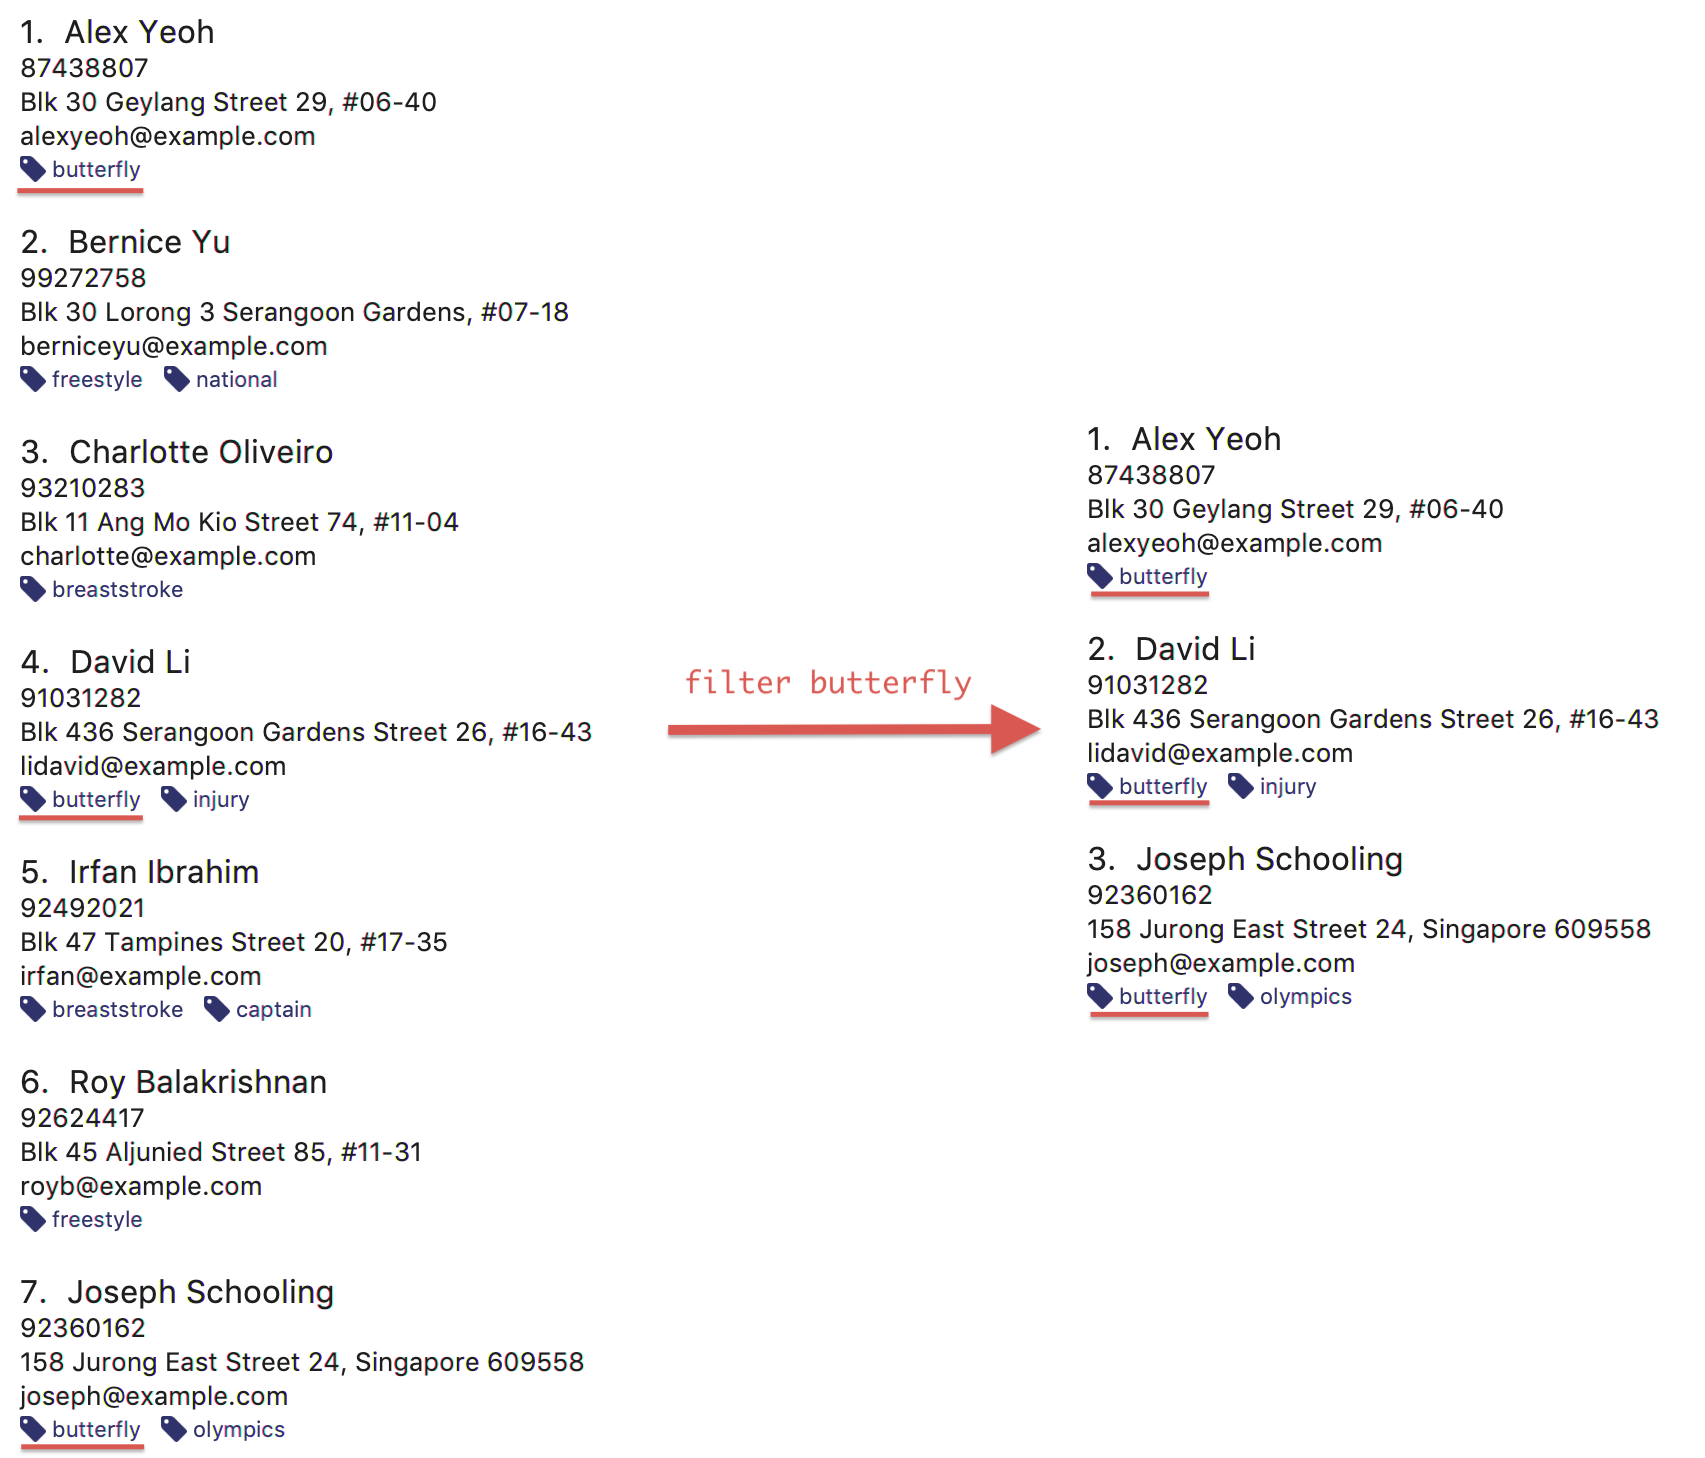
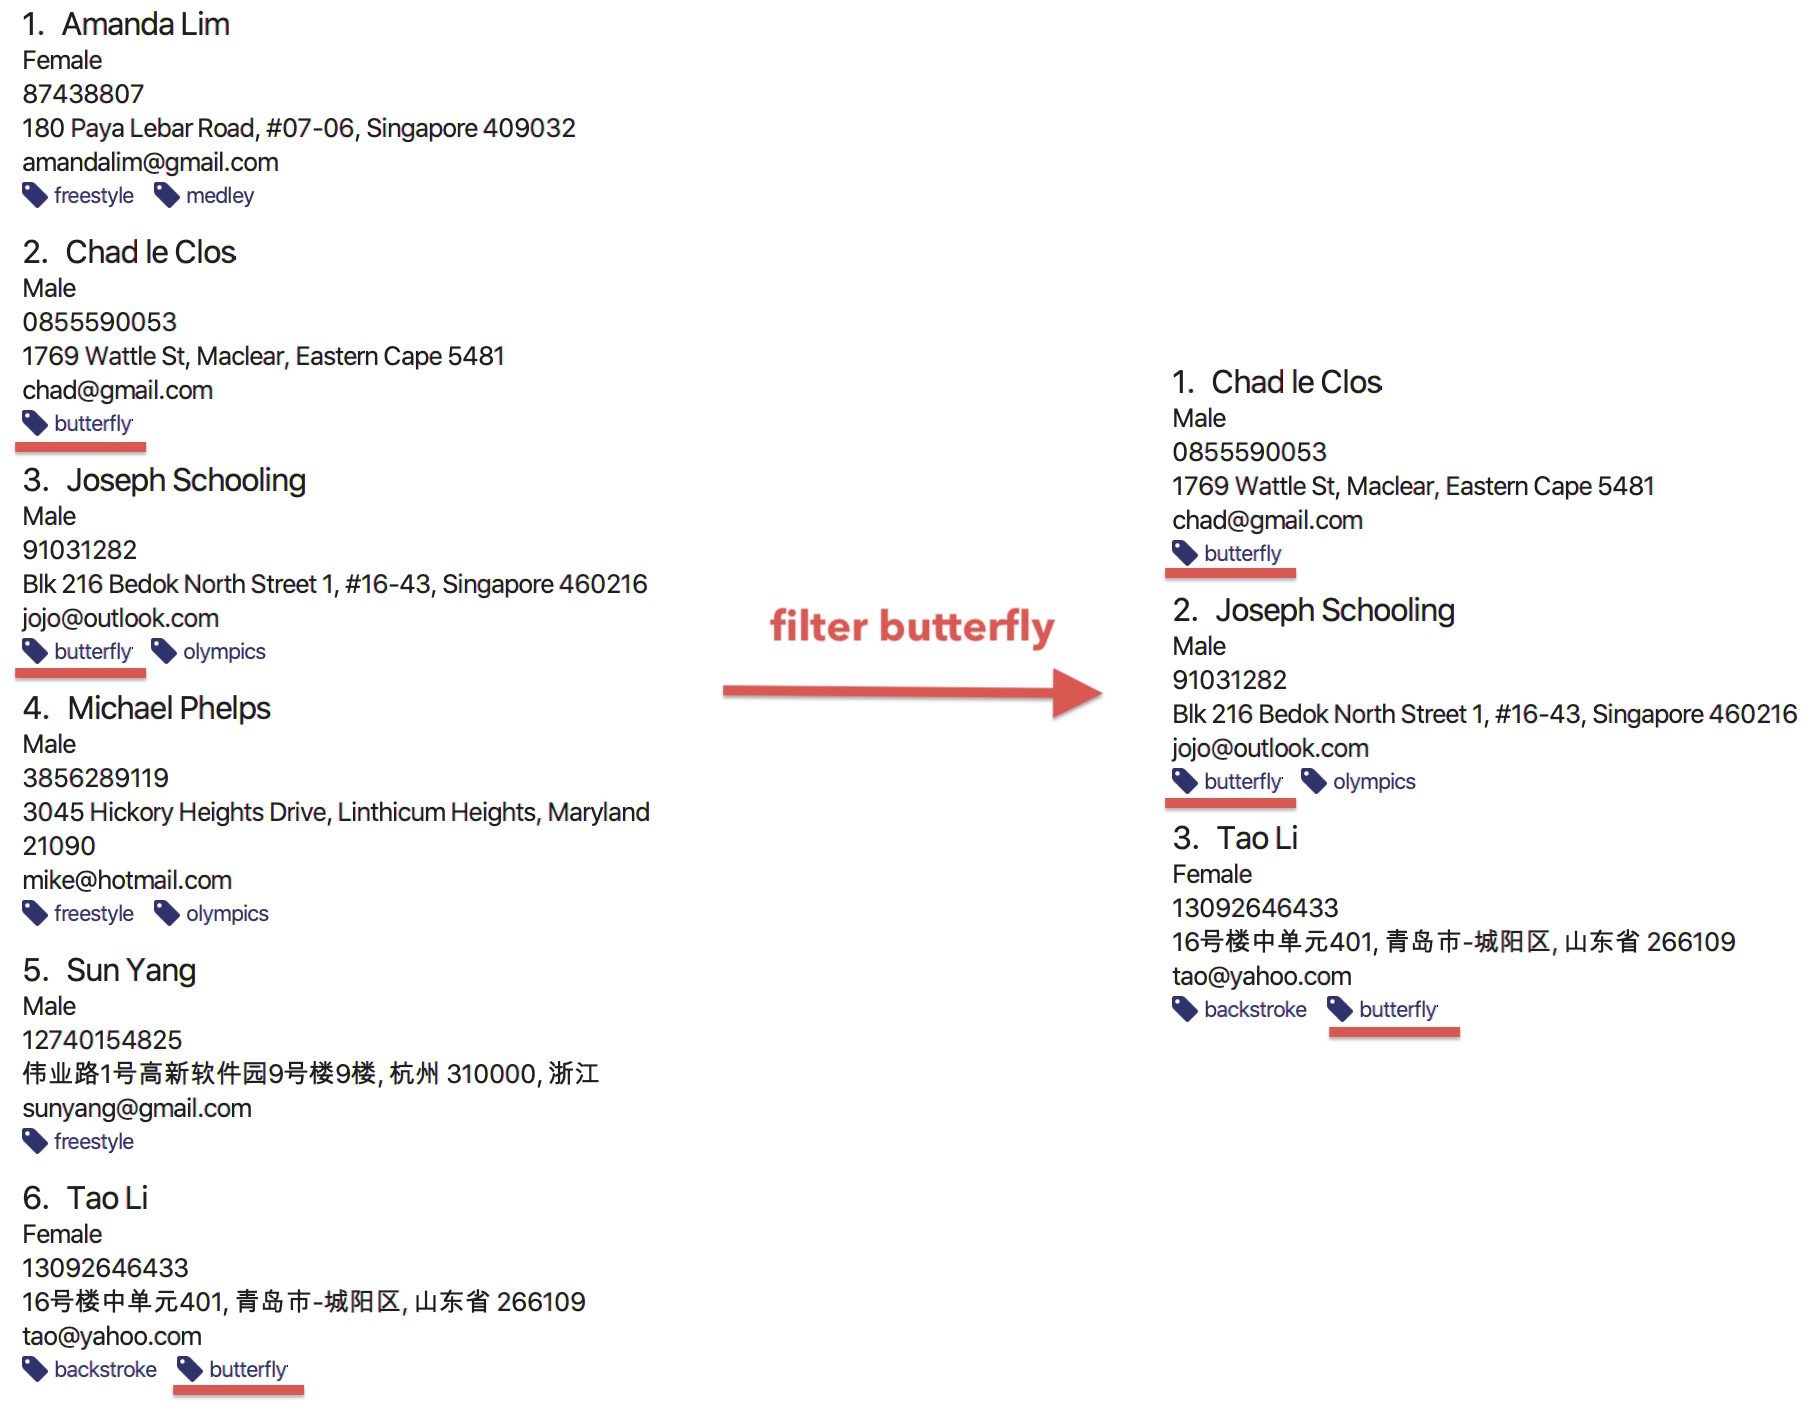
Rebuild pages at 5589edbfe283f3ef0ab98e09432a3d92bba68537

Changed region(s): [[0.0, 0.0, 0.373, 1.0], [0.373, 0.2454, 0.9947, 0.7668], [0.2798, 0.184, 0.3109, 0.2147]]

diff --git a/UserGuide.html b/UserGuide.html
@@ -542,15 +542,24 @@ the same event)
 <div class="paragraph">
 <p>Example: <code>event freestyle 50m</code></p>
 </div>
+<div class="imageblock">
+<div class="content">
+<img src="images/addevent_wysd.png" alt="addevent wysd" width="450">
+</div>
+</div>
 <div class="paragraph">
 <p><strong>What you should see</strong></p>
 </div>
 <div class="paragraph">
-<p>If successfully added, the result box will display the added event name as shown below.</p>
+<p>If successfully added, the result box (red box) will display the added event name as shown below.</p>
+</div>
+<div class="paragraph">
+<p>Additionally, the feature box (orange box) will display the list of all your events. The event you just
+added should be included in the list. In the example below, <code>freestyle 50m</code> appears at the bottom of the list.</p>
 </div>
 <div class="imageblock">
 <div class="content">
-<img src="images/addevent.png" alt="addevent" width="350">
+<img src="images/addevent_wyss.png" alt="addevent wyss" width="450">
 </div>
 </div>
 </div>
@@ -1058,7 +1067,7 @@ Now you want to sort the list to put these players in their correct positions al
 </div>
 <div class="imageblock">
 <div class="content">
-<img src="images/filter_wysd.png" alt="filter wysd" width="350">
+<img src="images/filter_wysd.png" alt="filter wysd" width="450">
 </div>
 </div>
 <div class="paragraph">
@@ -1066,35 +1075,30 @@ Now you want to sort the list to put these players in their correct positions al
 </div>
 <div class="paragraph">
 <p>If successfully executed,
-the success message with the number of athletes that contain your specified tag will be displayed in the result box (red mark-up).
-In the example given below, there are 3 athletes that have the <code>butterfly</code> tag.</p>
+the message "x persons listed!" will be displayed in the result box (red box), where x is the number of
+athletes that match the tag you filtered by.</p>
+</div>
+<div class="paragraph">
+<p>Additionally, the athlete list (orange box) will contain only the athletes that have the tag you filtered
+by.</p>
+</div>
+<div class="paragraph">
+<p>In the example given below, 3 athletes have the <code>butterfly</code> tag.</p>
 </div>
 <div class="imageblock">
 <div class="content">
-<img src="images/filter_wyss.png" alt="filter wyss" width="350">
+<img src="images/filter_wyss.png" alt="filter wyss" width="450">
 </div>
-</div>
-<div class="paragraph">
-<p>The diagram below shows the change in the active list when the filter is applied.
-Notice that the <code>INDEX</code> of the athletes have changed (eg. David has changed from 4 to 2).</p>
+<div class="title">Figure 3. Note that the index numbers of the athletes in the filtered list may differ from that of the unfiltered list (refer to the diagram below for an explanation).</div>
 </div>
 <div class="paragraph">
-<p>Subsequent commands that require <code>INDEX</code> will use the updated <code>INDEX</code>.</p>
+<p>The diagram below shows the change in the active list (from unfiltered to filtered) when the filter is
+applied.
+Notice that the index of some athletes have changed (eg. Joseph Schooling has changed from 3 to 2).</p>
 </div>
 <div class="imageblock">
 <div class="content">
 <img src="images/filter_change.png" alt="filter change" width="395">
-</div>
-</div>
-<div class="paragraph">
-<p>You are also able to filter by multiple tags.</p>
-</div>
-<div class="paragraph">
-<p>The diagram below shows the change in the active list with <code>filter butterfly freestyle</code> is applied.</p>
-</div>
-<div class="imageblock">
-<div class="content">
-<img src="images/filter_change2.png" alt="filter change2" width="385">
 </div>
 </div>
 </div>
@@ -1158,7 +1162,7 @@ contains the given keywords.</p>
 <div class="content">
 <img src="images/find_wyss.png" alt="find wyss" width="400">
 </div>
-<div class="title">Figure 3. Notice that Joseph Tan is also in the result as his name has 'Joseph'.</div>
+<div class="title">Figure 4. Notice that Joseph Tan is also in the result as his name has 'Joseph'.</div>
 </div>
 </div>
 </div>
@@ -1616,4 +1620,4 @@ View all created events
 <div class="sectionbody">
 
 </div>
-</div></div><div id="footer"><div class="container"><div id="footer-text">Last updated 2019-11-09 05:55:31 UTC</div></div></div></body></html>
+</div></div><div id="footer"><div class="container"><div id="footer-text">Last updated 2019-11-09 06:58:24 UTC</div></div></div></body></html>

diff --git a/tutorials/RemovingFields.html b/tutorials/RemovingFields.html
@@ -175,4 +175,4 @@ While keeping the <code>address</code> field in the json files does not cause th
 <p>You can go through each individual <code>json</code> file and manually remove the <code>address</code> field.</p>
 </div>
 </div>
-</div></div><div id="footer"><div class="container"><div id="footer-text">Last updated 2019-11-09 05:55:31 UTC</div></div></div></body></html>
+</div></div><div id="footer"><div class="container"><div id="footer-text">Last updated 2019-11-09 06:58:24 UTC</div></div></div></body></html>

diff --git a/Testing.html b/Testing.html
@@ -90,4 +90,4 @@ e.g. <code>seedu.address.logic.LogicManagerTest</code></p>
 <div class="title">Figure 1. <code>Accessibility</code> permission is granted to <code>IntelliJ IDEA</code></div>
 </div>
 </div>
-</div></div><div id="footer"><div class="container"><div id="footer-text">Last updated 2019-11-09 05:55:31 UTC</div></div></div></body></html>
+</div></div><div id="footer"><div class="container"><div id="footer-text">Last updated 2019-11-09 06:58:24 UTC</div></div></div></body></html>

diff --git a/tutorials/AddRemark.html b/tutorials/AddRemark.html
@@ -616,4 +616,4 @@ In this case, <code>CommandTestUtil#assertCommandSuccess</code> is the best fit 
 <p>This concludes the tutorial for adding a new <code>Command</code> to AddressBook.</p>
 </div>
 </div>
-</div></div><div id="footer"><div class="container"><div id="footer-text">Last updated 2019-11-09 05:55:31 UTC</div></div></div></body></html>
+</div></div><div id="footer"><div class="container"><div id="footer-text">Last updated 2019-11-09 06:58:24 UTC</div></div></div></body></html>

diff --git a/ContactUs.html b/ContactUs.html
@@ -12,4 +12,4 @@
 <p><strong>Email us</strong> : You can also reach us at <code>dominique@u.nus.edu</code></p>
 </li>
 </ul>
-</div></div><div id="footer"><div class="container"><div id="footer-text">Last updated 2019-11-09 05:55:31 UTC</div></div></div></body></html>
+</div></div><div id="footer"><div class="container"><div id="footer-text">Last updated 2019-11-09 06:58:24 UTC</div></div></div></body></html>

diff --git a/LearningOutcomes.html b/LearningOutcomes.html
@@ -474,4 +474,4 @@ of storages, but different number of storages (e.g. save to both a text file and
 </div>
 </div>
 </div>
-</div></div><div id="footer"><div class="container"><div id="footer-text">Last updated 2019-11-09 05:55:31 UTC</div></div></div></body></html>
+</div></div><div id="footer"><div class="container"><div id="footer-text">Last updated 2019-11-09 06:58:24 UTC</div></div></div></body></html>

diff --git a/SettingUp.html b/SettingUp.html
@@ -180,4 +180,4 @@ Having both Travis and AppVeyor ensures your App works on both Unix-based platfo
 </div>
 </div>
 </div>
-</div></div><div id="footer"><div class="container"><div id="footer-text">Last updated 2019-11-09 05:55:31 UTC</div></div></div></body></html>
+</div></div><div id="footer"><div class="container"><div id="footer-text">Last updated 2019-11-09 06:58:24 UTC</div></div></div></body></html>

diff --git a/UsingCoveralls.html b/UsingCoveralls.html
@@ -111,4 +111,4 @@ If you have not set up Travis CI, see <a href="UsingTravis.html">UsingTravis.ado
 </ol>
 </div>
 </div>
-</div></div><div id="footer"><div class="container"><div id="footer-text">Last updated 2019-11-09 05:55:31 UTC</div></div></div></body></html>
+</div></div><div id="footer"><div class="container"><div id="footer-text">Last updated 2019-11-09 06:58:24 UTC</div></div></div></body></html>

diff --git a/UsingGradle.html b/UsingGradle.html
@@ -228,4 +228,4 @@ See <code>build.gradle</code> &#8594; <code>allprojects</code> &#8594; <code>dep
 </ul>
 </div>
 </div>
-</div></div><div id="footer"><div class="container"><div id="footer-text">Last updated 2019-11-09 05:55:31 UTC</div></div></div></body></html>
+</div></div><div id="footer"><div class="container"><div id="footer-text">Last updated 2019-11-09 06:58:24 UTC</div></div></div></body></html>

diff --git a/UsingNetlify.html b/UsingNetlify.html
@@ -138,4 +138,4 @@ The publish directory is the directory in which the built HTML documentation res
 </ol>
 </div>
 </div>
-</div></div><div id="footer"><div class="container"><div id="footer-text">Last updated 2019-11-09 05:55:31 UTC</div></div></div></body></html>
+</div></div><div id="footer"><div class="container"><div id="footer-text">Last updated 2019-11-09 06:58:24 UTC</div></div></div></body></html>

diff --git a/Documentation.html b/Documentation.html
@@ -226,4 +226,4 @@ The SE-EDU team does not provide support for modified template files.</p>
 </table>
 </div>
 </div>
-</div></div><div id="footer"><div class="container"><div id="footer-text">Last updated 2019-11-09 05:55:31 UTC</div></div></div></body></html>
+</div></div><div id="footer"><div class="container"><div id="footer-text">Last updated 2019-11-09 06:58:24 UTC</div></div></div></body></html>

diff --git a/team/johndoe.html b/team/johndoe.html
@@ -161,4 +161,4 @@
 <p><em>{Optionally, you may include other projects in your portfolio.}</em></p>
 </div>
 </div>
-</div></div><div id="footer"><div class="container"><div id="footer-text">Last updated 2019-11-09 05:55:31 UTC</div></div></div></body></html>
+</div></div><div id="footer"><div class="container"><div id="footer-text">Last updated 2019-11-09 06:58:24 UTC</div></div></div></body></html>
